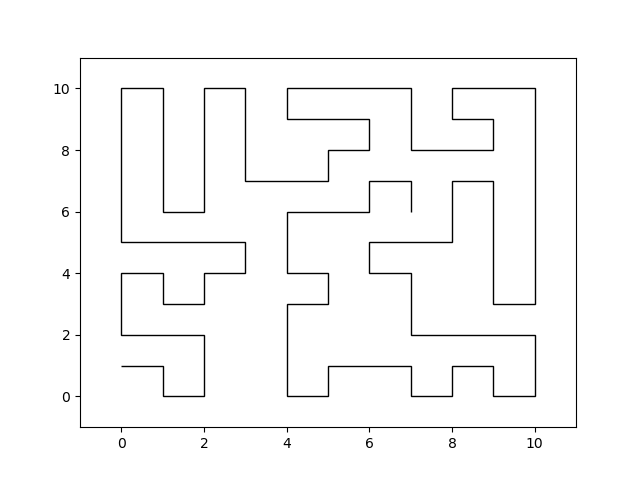
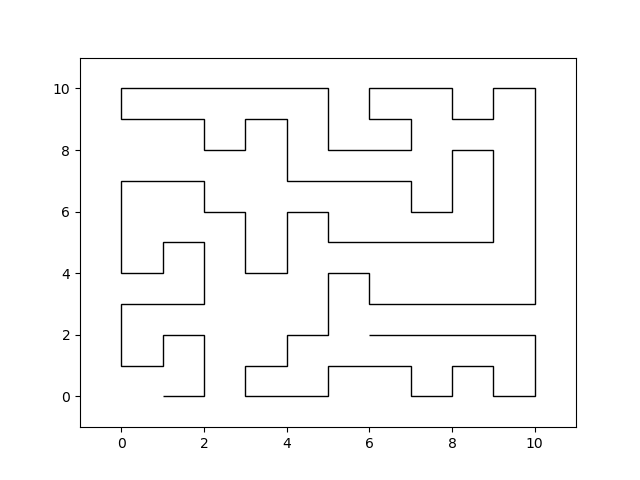
more figures

diff --git a/draw_path.py b/draw_path.py
@@ -2,8 +2,8 @@ import matplotlib.pyplot as plt
 from matplotlib.path import Path
 import matplotlib.patches as patches
 import pickle as pkl
-fn = 1
-seed = 1269#13596
+fn = 0
+seed = 492#1269#13596
 path_fname  = 'problem2/path{}/max_length{}.pkl'.format(fn,seed) 
 with open(path_fname,'rb') as f:
     path = pkl.load(f)
